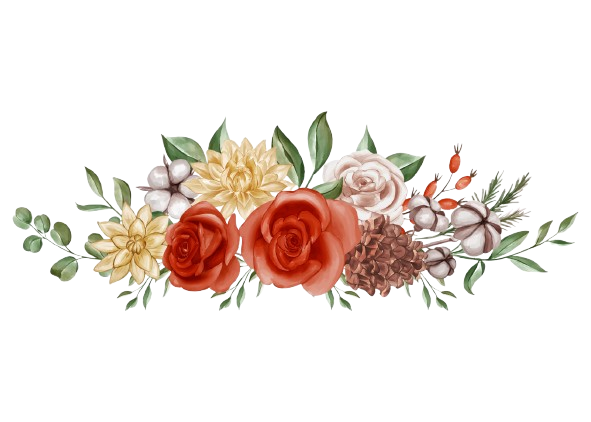
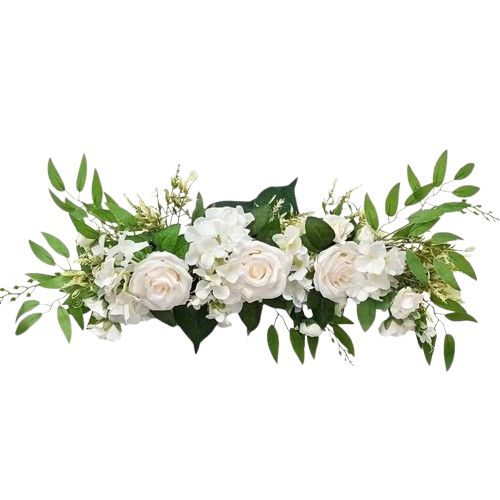
Refactor code structure for improved readability and maintainability

Changed region(s): [[0.0, 0.2464, 1.0, 0.7393]]

diff --git a/index.html b/index.html
@@ -510,12 +510,13 @@
     height: 60px;
     border-radius: 50%;
     border: 2px solid rgba(0,0,0,0.08);
+    box-shadow: 0 2px 8px rgba(0,0,0,0.15);
   }
   .swatch-name {
     font-size: 0.62rem;
     letter-spacing: 0.3em;
     text-transform: uppercase;
-    color: var(--text-soft);
+    color: rgba(255,255,255,0.8);
   }
 
   /* RSVP */
@@ -740,14 +741,14 @@
   <div class="verse-card">
     <span class="verse-who">Lui</span>
     <!-- PETITE TOUCHE FLORALE DANS LA CARTE -->
-    <img src="fleur-1.png" alt="Fleurs" class="floral-decoration small">
+    <img src="fleur-1.jpeg" alt="Fleurs" class="floral-decoration small">
     <blockquote>"J'ai trouvé celle que mon cœur aime."</blockquote>
     <cite>Cantique des Cantiques 3:4</cite>
   </div>
   <div class="verse-card">
     <span class="verse-who">Elle</span>
     <!-- PETITE TOUCHE FLORALE DANS LA CARTE -->
-    <img src="fleur-3.png" alt="Fleurs" class="floral-decoration small">
+    <img src="fleur-3.jpeg" alt="Fleurs" class="floral-decoration small">
     <blockquote>"Mon bien-aimé est à moi, et je suis à lui."</blockquote>
     <cite>Cantique des Cantiques 2:16</cite>
   </div>
@@ -756,11 +757,12 @@
 <!-- COUNTDOWN -->
 <section id="countdown-section" class="section-wide fade-in">
   <span class="label">Le grand jour</span>
-  <h2>Patience & Prières</h2>
+  <h2>Patience &amp; Prières</h2>
   <div class="countdown-grid">
-    <div class="countdown-item"><span class="countdown-num">42</span><span class="countdown-label">Jours</span></div>
-    <div class="countdown-item"><span class="countdown-num">10</span><span class="countdown-label">Heures</span></div>
-    <div class="countdown-item"><span class="countdown-num">30</span><span class="countdown-label">Minutes</span></div>
+    <div class="countdown-item"><span class="countdown-num" id="cdDays">—</span><span class="countdown-label">Jours</span></div>
+    <div class="countdown-item"><span class="countdown-num" id="cdHours">—</span><span class="countdown-label">Heures</span></div>
+    <div class="countdown-item"><span class="countdown-num" id="cdMins">—</span><span class="countdown-label">Minutes</span></div>
+    <div class="countdown-item"><span class="countdown-num" id="cdSecs">—</span><span class="countdown-label">Secondes</span></div>
   </div>
 </section>
 
@@ -771,40 +773,53 @@
   
   <div class="event-block">
     <span class="event-type">Cérémonie Civile</span>
-    <h3 class="event-title">Mairie de Cocody</h3>
+    <h3 class="event-title">Hôtel Communal</h3>
     <div class="event-detail">
       <span class="day">Jeudi 09 Juillet 2026</span>
-      <span class="time">14h00</span>
+      <span class="time">11h00</span>
     </div>
-    <p class="event-place"><strong>Abidjan, Cocody</strong><br>Hôtel de ville</p>
+    <p class="event-place"><strong>Mairie</strong><br>Hôtel Communal</p>
   </div>
   <div class="event-block">
     <span class="event-type">Bénédiction Nuptiale</span>
-    <h3 class="event-title">Église ...</h3>
+    <h3 class="event-title">Temple les Oliviers</h3>
     <div class="event-detail">
       <span class="day">Samedi 11 Juillet 2026</span>
-      <span class="time">10h00</span>
+      <span class="time">14h00</span>
     </div>
-    <p class="event-place"><strong>Abidjan</strong><br>Adresse de l'église</p>
+    <p class="event-place"><strong>Église Évangélique</strong><br>Assemblées de la Palmeraie — Temple les Oliviers</p>
+  </div>
+  <div class="event-block">
+    <span class="event-type">Soirée Dînatoire</span>
+    <h3 class="event-title">Royal Palace</h3>
+    <div class="event-detail">
+      <span class="day">Samedi 11 Juillet 2026</span>
+      <span class="time">17h00</span>
+    </div>
+    <p class="event-place"><strong>Réception</strong><br>Espace Événement Royal Palace</p>
   </div>
 </section>
 
 <!-- GREEN BLOCK -->
 <section class="emerald-block section-wide fade-in">
   <span class="label">Dress Code</span>
-  <p>Pour l'harmonie de cette belle journée, nous vous invitons à respecter ces couleurs.</p>
+  <p>Pour l'harmonie de cette belle journée, nous vous invitons à honorer ces couleurs.</p>
   <div class="dress-colors">
     <div class="dress-swatch">
-      <div class="swatch-circle" style="background: #C9A84C;"></div>
-      <span class="swatch-name">Or</span>
+      <div class="swatch-circle" style="background: #F8F5EF; border: 2px solid rgba(255,255,255,0.5);"></div>
+      <span class="swatch-name">Blanc</span>
+    </div>
+    <div class="dress-swatch">
+      <div class="swatch-circle" style="background: #111111;"></div>
+      <span class="swatch-name">Noir</span>
     </div>
     <div class="dress-swatch">
       <div class="swatch-circle" style="background: #2D6A4F;"></div>
-      <span class="swatch-name">Émeraude</span>
+      <span class="swatch-name">Vert Émeraude</span>
     </div>
     <div class="dress-swatch">
-      <div class="swatch-circle" style="background: #FAF7F2;"></div>
-      <span class="swatch-name">Crème</span>
+      <div class="swatch-circle" style="background: #C9A84C;"></div>
+      <span class="swatch-name">Or</span>
     </div>
   </div>
 </section>
@@ -891,7 +906,40 @@
   faders.forEach(fader => { appearOnScroll.observe(fader); });
 </script>
 
-<!-- Script Firebase Firestore pour le RSVP -->
+<!-- Countdown Live -->
+<script>
+  (function() {
+    const target = new Date('2026-07-09T11:00:00').getTime();
+    function pad(n) { return String(n).padStart(2, '0'); }
+    function tick() {
+      const now = Date.now();
+      const diff = target - now;
+      if (diff <= 0) {
+        ['cdDays','cdHours','cdMins','cdSecs'].forEach(id => {
+          const el = document.getElementById(id);
+          if (el) el.textContent = '00';
+        });
+        return;
+      }
+      const d = Math.floor(diff / 86400000);
+      const h = Math.floor((diff % 86400000) / 3600000);
+      const m = Math.floor((diff % 3600000) / 60000);
+      const s = Math.floor((diff % 60000) / 1000);
+      const days = document.getElementById('cdDays');
+      const hours = document.getElementById('cdHours');
+      const mins = document.getElementById('cdMins');
+      const secs = document.getElementById('cdSecs');
+      if (days) days.textContent = d;
+      if (hours) hours.textContent = pad(h);
+      if (mins) mins.textContent = pad(m);
+      if (secs) secs.textContent = pad(s);
+    }
+    tick();
+    setInterval(tick, 1000);
+  })();
+</script>
+
+
 <script type="module">
   import { initializeApp } from "https://www.gstatic.com/firebasejs/10.12.2/firebase-app.js";
   import { getFirestore, collection, addDoc, serverTimestamp } from "https://www.gstatic.com/firebasejs/10.12.2/firebase-firestore.js";
